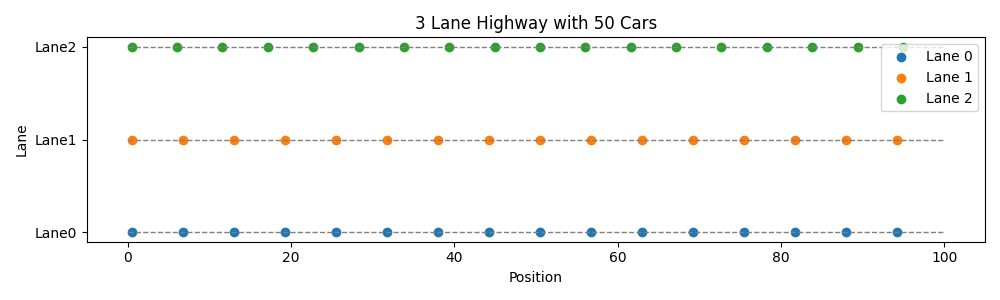
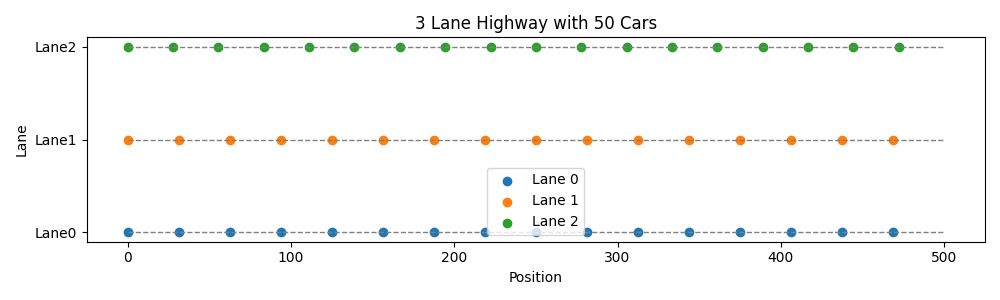
Started work on updating the cars

diff --git a/simulation.py b/simulation.py
@@ -4,35 +4,55 @@ import matplotlib.animation as animation
 import IPython.display as display
 import random as rand
 from pprint import pprint
+import time
 
+#%matplotlib
 
 class Car:
-   def __init__(self, lane, back, front, speed, technique, length=1):
+   reckless = {"desired_speed": 1.5, "accel": .2, "decel": .5}
+   cautious = {"desired_speed": .9, "accel": .05, "decel": .3}
+   normal = {"desired_speed": 1, "accel": .1, "decel": .4}
+
+   def __init__(self, lane, position, speed, technique, length=1):
       self.lane = lane
       self.speed = speed
       self.length = length
-      self.front = front
-      self.back = back
+      self.pos = position
 
       self.desired_speed = None
+      self.desire_accel = None
+      self.desired_decel = None
       self.accel = None
+      self.decel = None
       self.assign_characteristics(technique)
       
    
    def assign_characteristics(self, technique):
       if technique == "Reckless":
-         pass
+         self.assign_metrics(Car.reckless)
       elif technique == "Cautious":
-         pass
+         self.assign_metrics(Car.cautious)
       else:
-         pass
+         self.assign_metrics(Car.normal)
+   
+   def assign_metrics(self, technique):
+      self.desired_speed = np.random.normal(technique["desired_speed"], 0.1)
+      self.desired_accel = np.random.normal(technique["accel"], .02)
+      self.desired_decel = np.random.normal(technique["decel"], .02)
+      self.accel = self.desired_accel
+      self.decel = self.desired_decel
+   
+   def check_bounds(self, lane_length):
+      if self.pos >= lane_length:
+         self.pos = self.pos % lane_length
+
 
 
 class Simulation:
    def __init__(self, num_cars, car_length, tecnhique_distrib, num_lanes=3, lane_length=100):
       self.num_lanes = num_lanes
       self.num_cars = num_cars
-      self.cars = []
+      self.cars = {}
       self.lanes = [[] for _ in range(num_lanes)]
       
       self.lane_length = lane_length
@@ -53,19 +73,18 @@ class Simulation:
          speed = 0
          position = 0
          for car in range(cars_per_lane):
-            new_car = Car(lane, position, position + car_length, speed, car_techniques[car_index], car_length)
-            self.lanes[lane].append(new_car)
+            new_car = Car(lane, position, speed, car_techniques[car_index], car_length)
+            self.cars[car_index] = new_car
+            self.lanes[lane].append(car_index)
             car_index += 1
             position += car_length + space_between_car
       
-   def plot_starting_conditions(self):
+   def plot(self):
       positions = [[] for _ in range(self.num_lanes)]
       for lane_num, lane in enumerate(self.lanes):
-         for car in lane:
-            positions[lane_num].append((car.back + car.front) / 2)
+         for car_index in lane:
+            positions[lane_num].append(self.cars[car_index].pos)
       
-      
-      pprint(positions)
       plt.figure(figsize=(10, 3))  # Adjust figure size if needed
 
       # Plot road lines for each lane
@@ -80,19 +99,42 @@ class Simulation:
       plt.ylabel('Lane')
       plt.title(f'{self.num_lanes} Lane Highway with {self.num_cars} Cars')
       plt.yticks([lane * .05 for lane in range(self.num_lanes)], [f"Lane{lane}" for lane in range(self.num_lanes)])
-      plt.legend()
+
 
       # Show plot
       plt.tight_layout()
+      print(plt.use('Agg'))
+      ax = plt.gca()
       plt.show()
-      plt.savefig('starting_conditions.png')
+      display.clear_output(wait=True)
+      
 
+   def update(self):
+      """"Update the simulation by one time step"""
+      update_order = np.random.permutation(np.arange(self.num_cars))
 
+      for i in update_order:
+         car = self.cars[i]
+         car.pos += car.speed
+         if car.speed >= car.desired_speed:
+            car.accel = 0
+         car.speed += car.accel
+         car.check_bounds(self.lane_length)
 
-
+   def run(self, num_steps, plot=True):
+      for _ in range(num_steps):
+         self.update()
+         if plot:
+            self.plot()
+         time.sleep(0.1)
       
 
 
+
 if __name__ == "__main__":
-   highway_sim = Simulation(50, 1, [1, 0, 0], 3, 100)
-   highway_sim.plot_starting_conditions()
+   highway_sim = Simulation(30, 1, [1, 0, 0], 3, 100)
+   highway_sim.run(1000)
+   
+   
+
+
